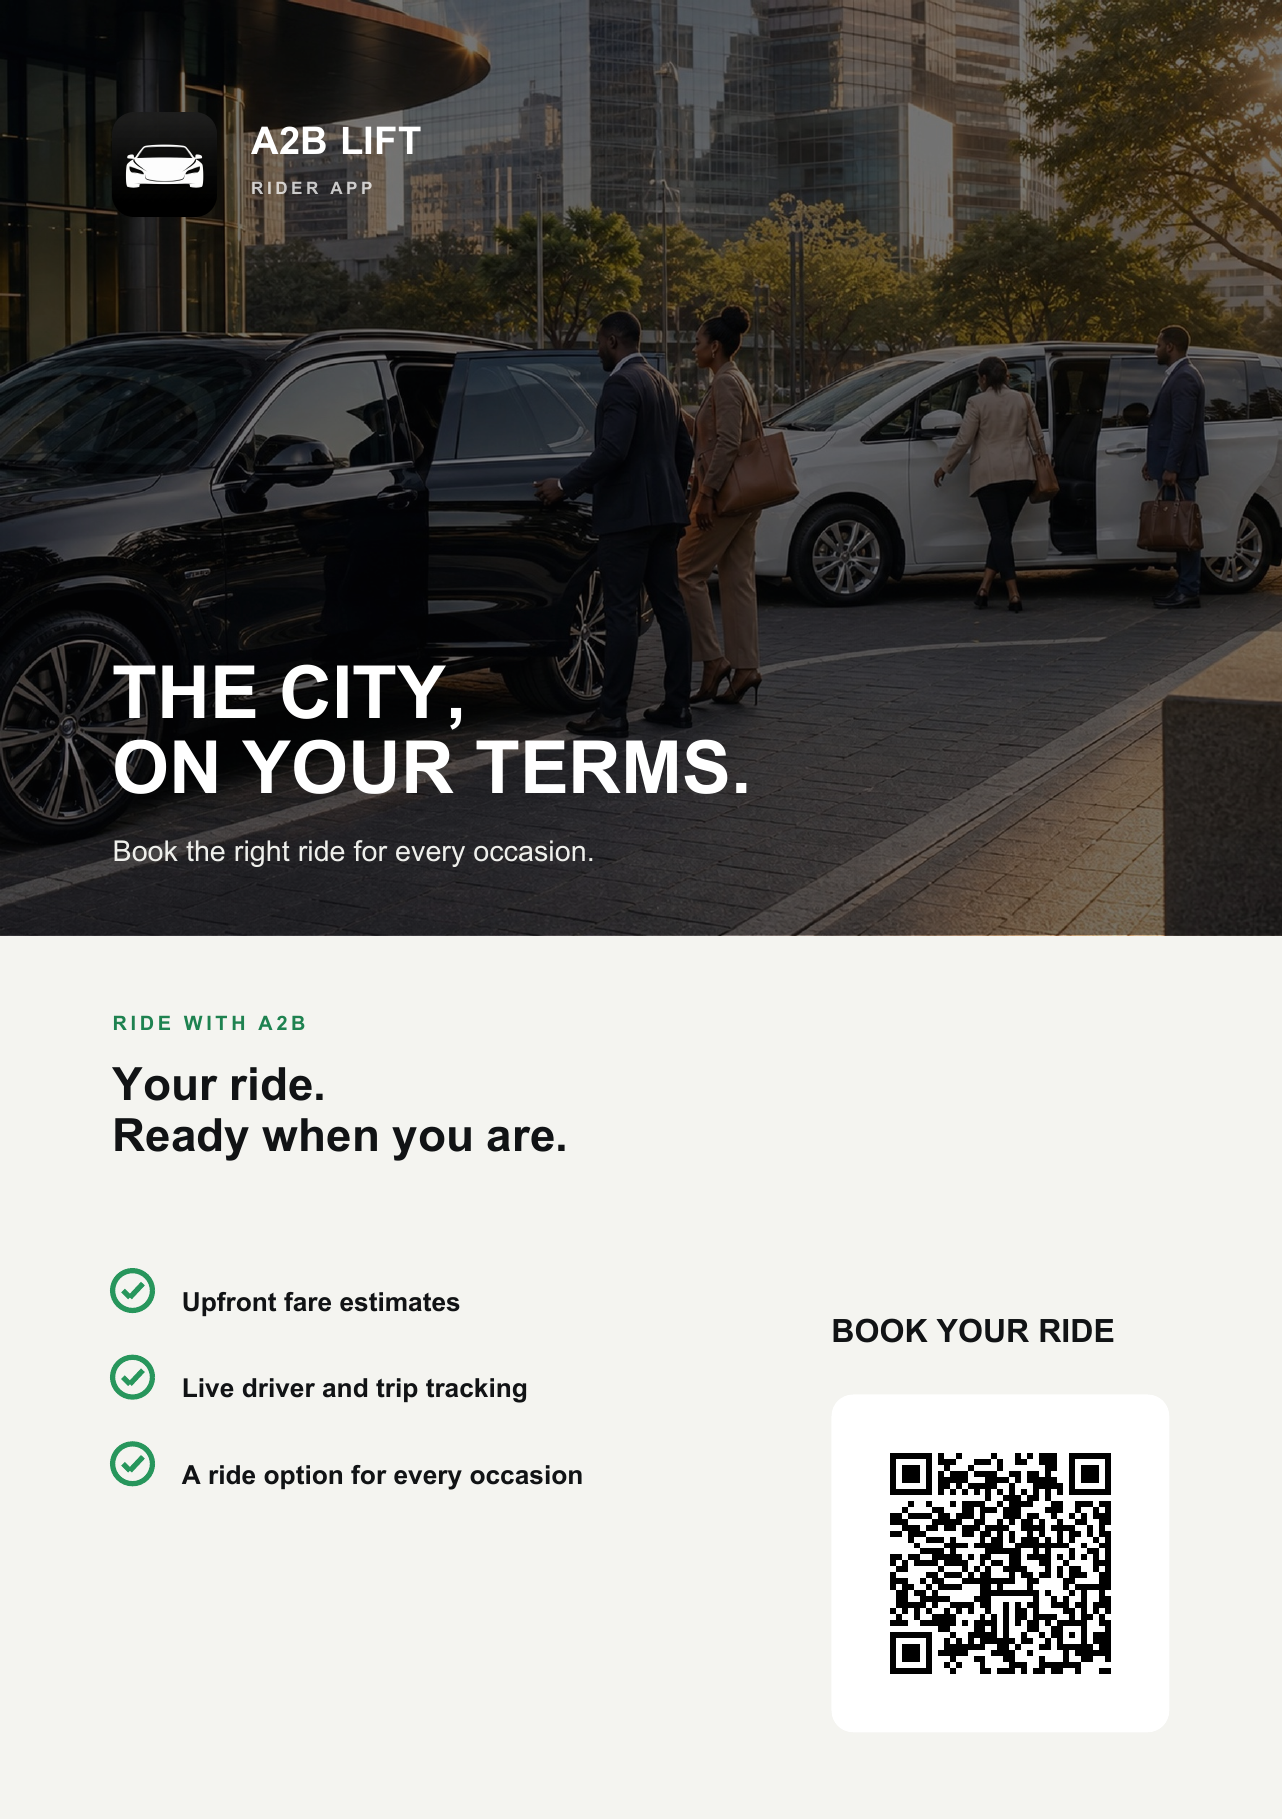
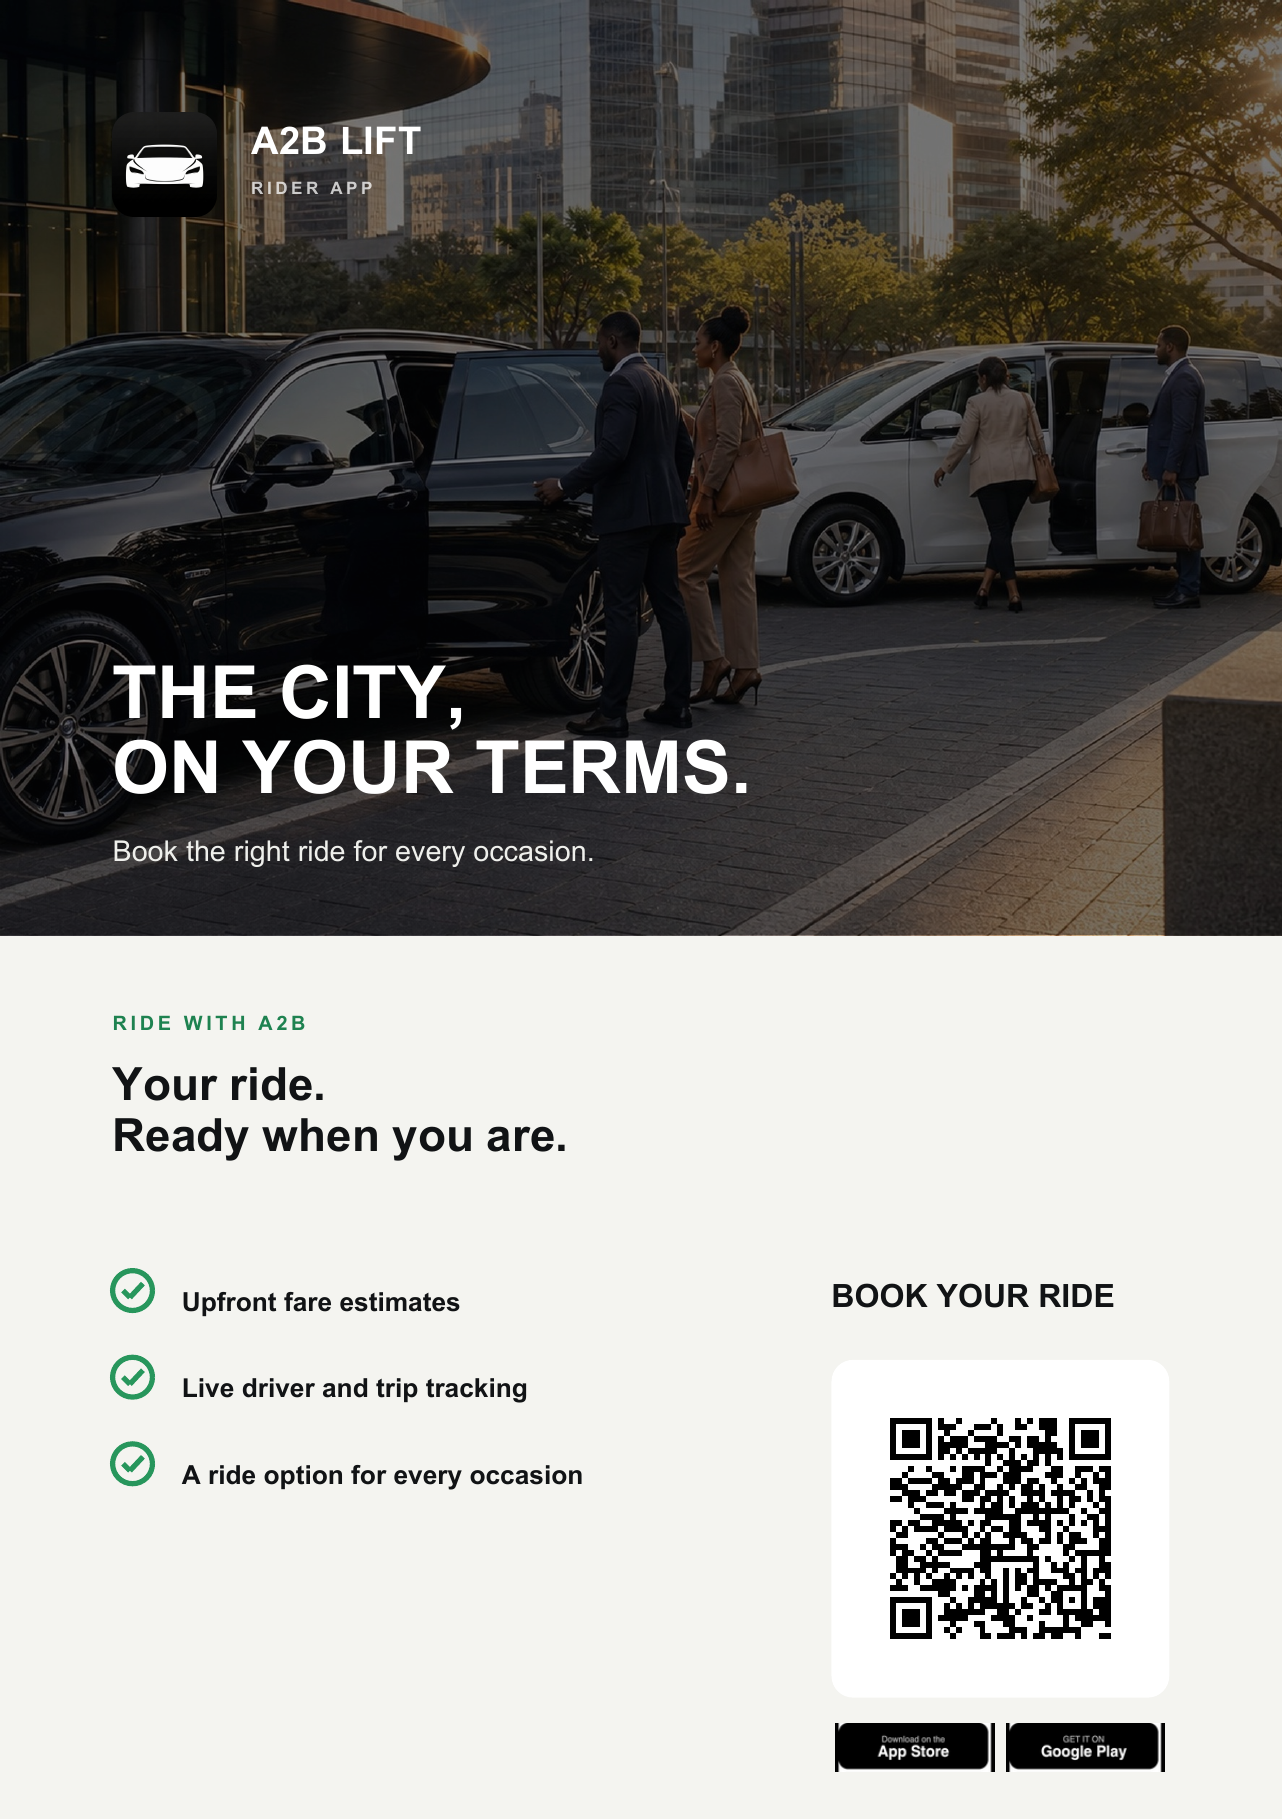
refine pamphlet store badges

Changed region(s): [[0.6552, 0.7697, 0.9048, 0.9852], [0.624, 0.7081, 0.8736, 0.7389]]

diff --git a/scripts/create_app_pamphlets.py b/scripts/create_app_pamphlets.py
@@ -186,7 +186,28 @@ def draw_qr(canvas: Canvas, value: str, x: float, y: float, container_size: floa
     renderPDF.draw(drawing, canvas, x + padding, y + padding)
 
 
-def draw_driver_pamphlet(output_path: Path, vehicle: Path, icon: Path) -> None:
+def draw_store_badges(canvas: Canvas, apple_badge: Path, google_badge: Path, x: float, y: float) -> None:
+    badge_w = 18.3 * mm
+    badge_h = badge_w * (45 / 150)
+    gap = 1.4 * mm
+    canvas.drawImage(str(apple_badge), x, y, width=badge_w, height=badge_h, mask="auto")
+    canvas.drawImage(
+        str(google_badge),
+        x + badge_w + gap,
+        y,
+        width=badge_w,
+        height=badge_h,
+        mask="auto",
+    )
+
+
+def draw_driver_pamphlet(
+    output_path: Path,
+    vehicle: Path,
+    icon: Path,
+    apple_badge: Path,
+    google_badge: Path,
+) -> None:
     canvas = Canvas(str(output_path), pagesize=A5)
     canvas.setTitle("A2B LIFT DRIVER - Download Pamphlet")
     canvas.setAuthor("A2B LIFT")
@@ -247,7 +268,7 @@ def draw_driver_pamphlet(output_path: Path, vehicle: Path, icon: Path) -> None:
 
     qr_size = 39 * mm
     qr_x = PAGE_W - MARGIN - qr_size
-    qr_y = 10 * mm
+    qr_y = 14 * mm
 
     draw_text_with_spacing(
         canvas,
@@ -259,12 +280,19 @@ def draw_driver_pamphlet(output_path: Path, vehicle: Path, icon: Path) -> None:
         color=SOFT_WHITE,
     )
     draw_qr(canvas, DRIVER_URL, qr_x, qr_y, qr_size)
+    draw_store_badges(canvas, apple_badge, google_badge, qr_x + 0.5 * mm, 5.5 * mm)
 
     canvas.showPage()
     canvas.save()
 
 
-def draw_client_pamphlet(output_path: Path, hero: Path, icon: Path) -> None:
+def draw_client_pamphlet(
+    output_path: Path,
+    hero: Path,
+    icon: Path,
+    apple_badge: Path,
+    google_badge: Path,
+) -> None:
     canvas = Canvas(str(output_path), pagesize=A5)
     canvas.setTitle("A2B LIFT - Rider App Download Pamphlet")
     canvas.setAuthor("A2B LIFT")
@@ -330,7 +358,7 @@ def draw_client_pamphlet(output_path: Path, hero: Path, icon: Path) -> None:
 
     qr_size = 39 * mm
     qr_x = PAGE_W - MARGIN - qr_size
-    qr_y = 10 * mm
+    qr_y = 14 * mm
 
     draw_text_with_spacing(
         canvas,
@@ -342,6 +370,7 @@ def draw_client_pamphlet(output_path: Path, hero: Path, icon: Path) -> None:
         color=INK,
     )
     draw_qr(canvas, CLIENT_URL, qr_x, qr_y, qr_size)
+    draw_store_badges(canvas, apple_badge, google_badge, qr_x + 0.5 * mm, 5.5 * mm)
 
     canvas.showPage()
     canvas.save()
@@ -371,8 +400,16 @@ def main() -> None:
         OUTPUT_DIR / "A2B-Lift-Driver-Pamphlet.pdf",
         ROOT / "assets" / "images" / "category-v-class.png",
         driver_icon,
+        ROOT / "assets" / "images" / "apple.png",
+        ROOT / "assets" / "images" / "google.png",
     )
-    draw_client_pamphlet(OUTPUT_DIR / "A2B-Lift-Client-Pamphlet.pdf", client_hero, client_icon)
+    draw_client_pamphlet(
+        OUTPUT_DIR / "A2B-Lift-Client-Pamphlet.pdf",
+        client_hero,
+        client_icon,
+        ROOT / "assets" / "images" / "apple.png",
+        ROOT / "assets" / "images" / "google.png",
+    )
 
 
 if __name__ == "__main__":
